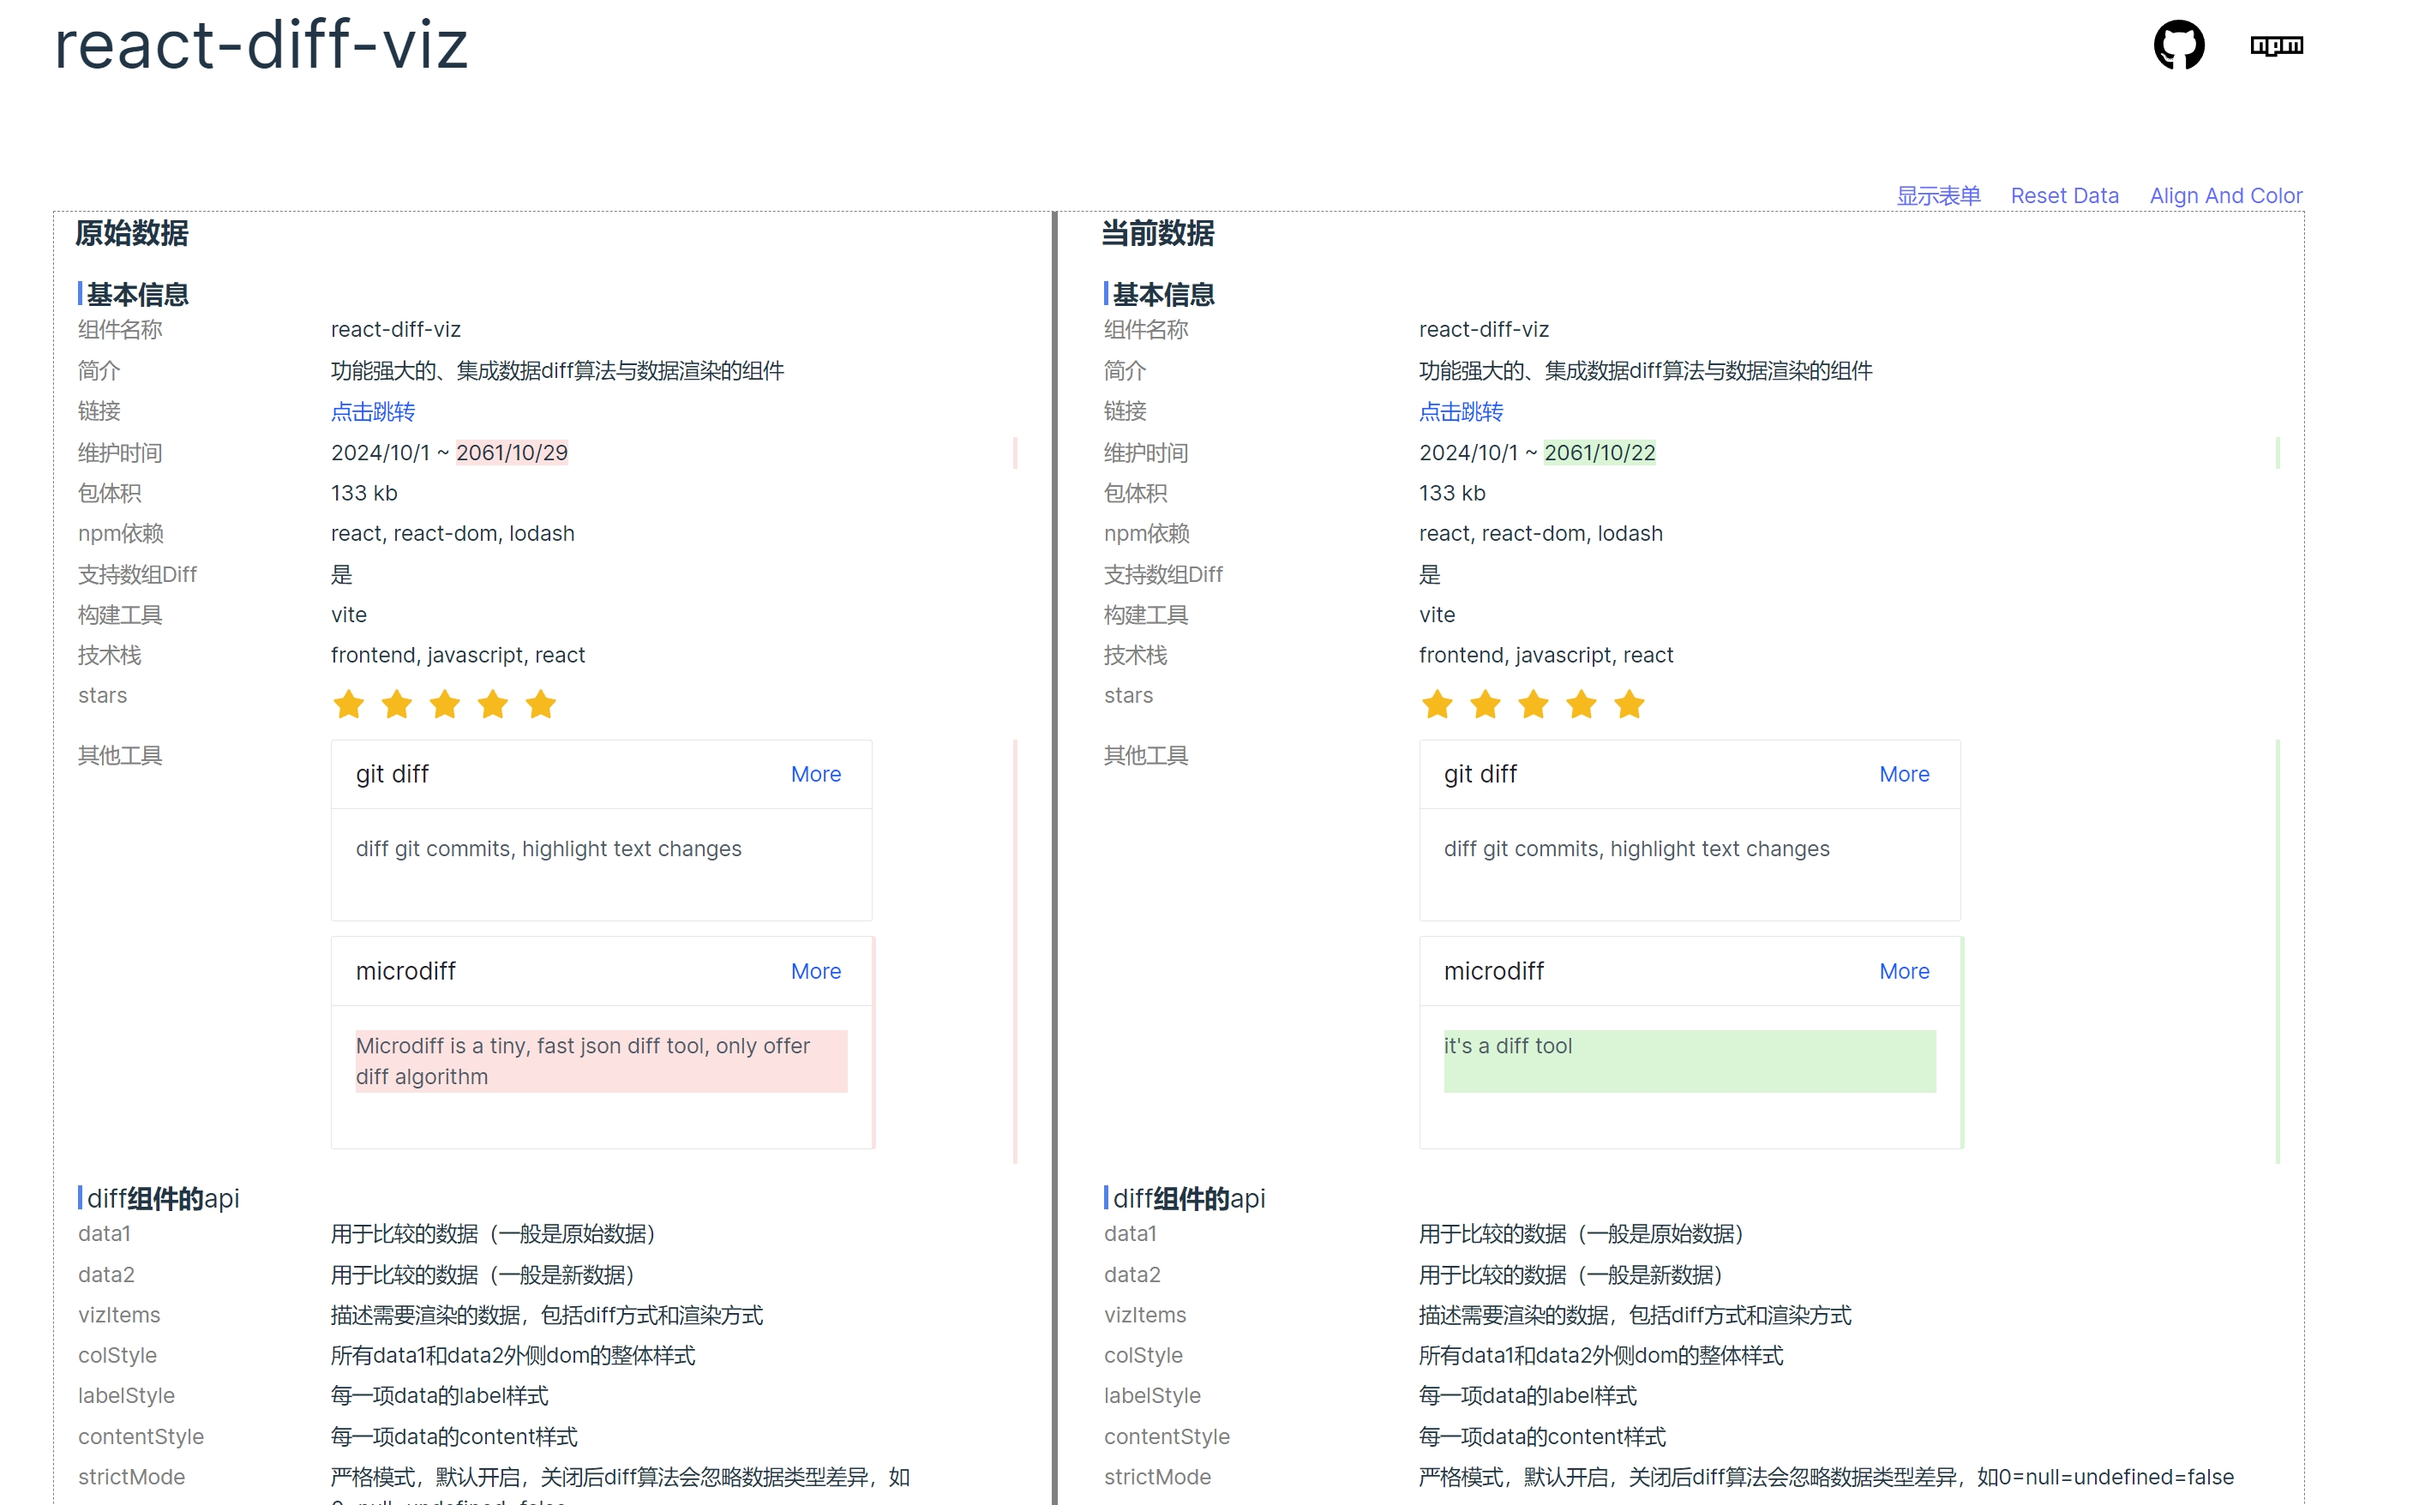
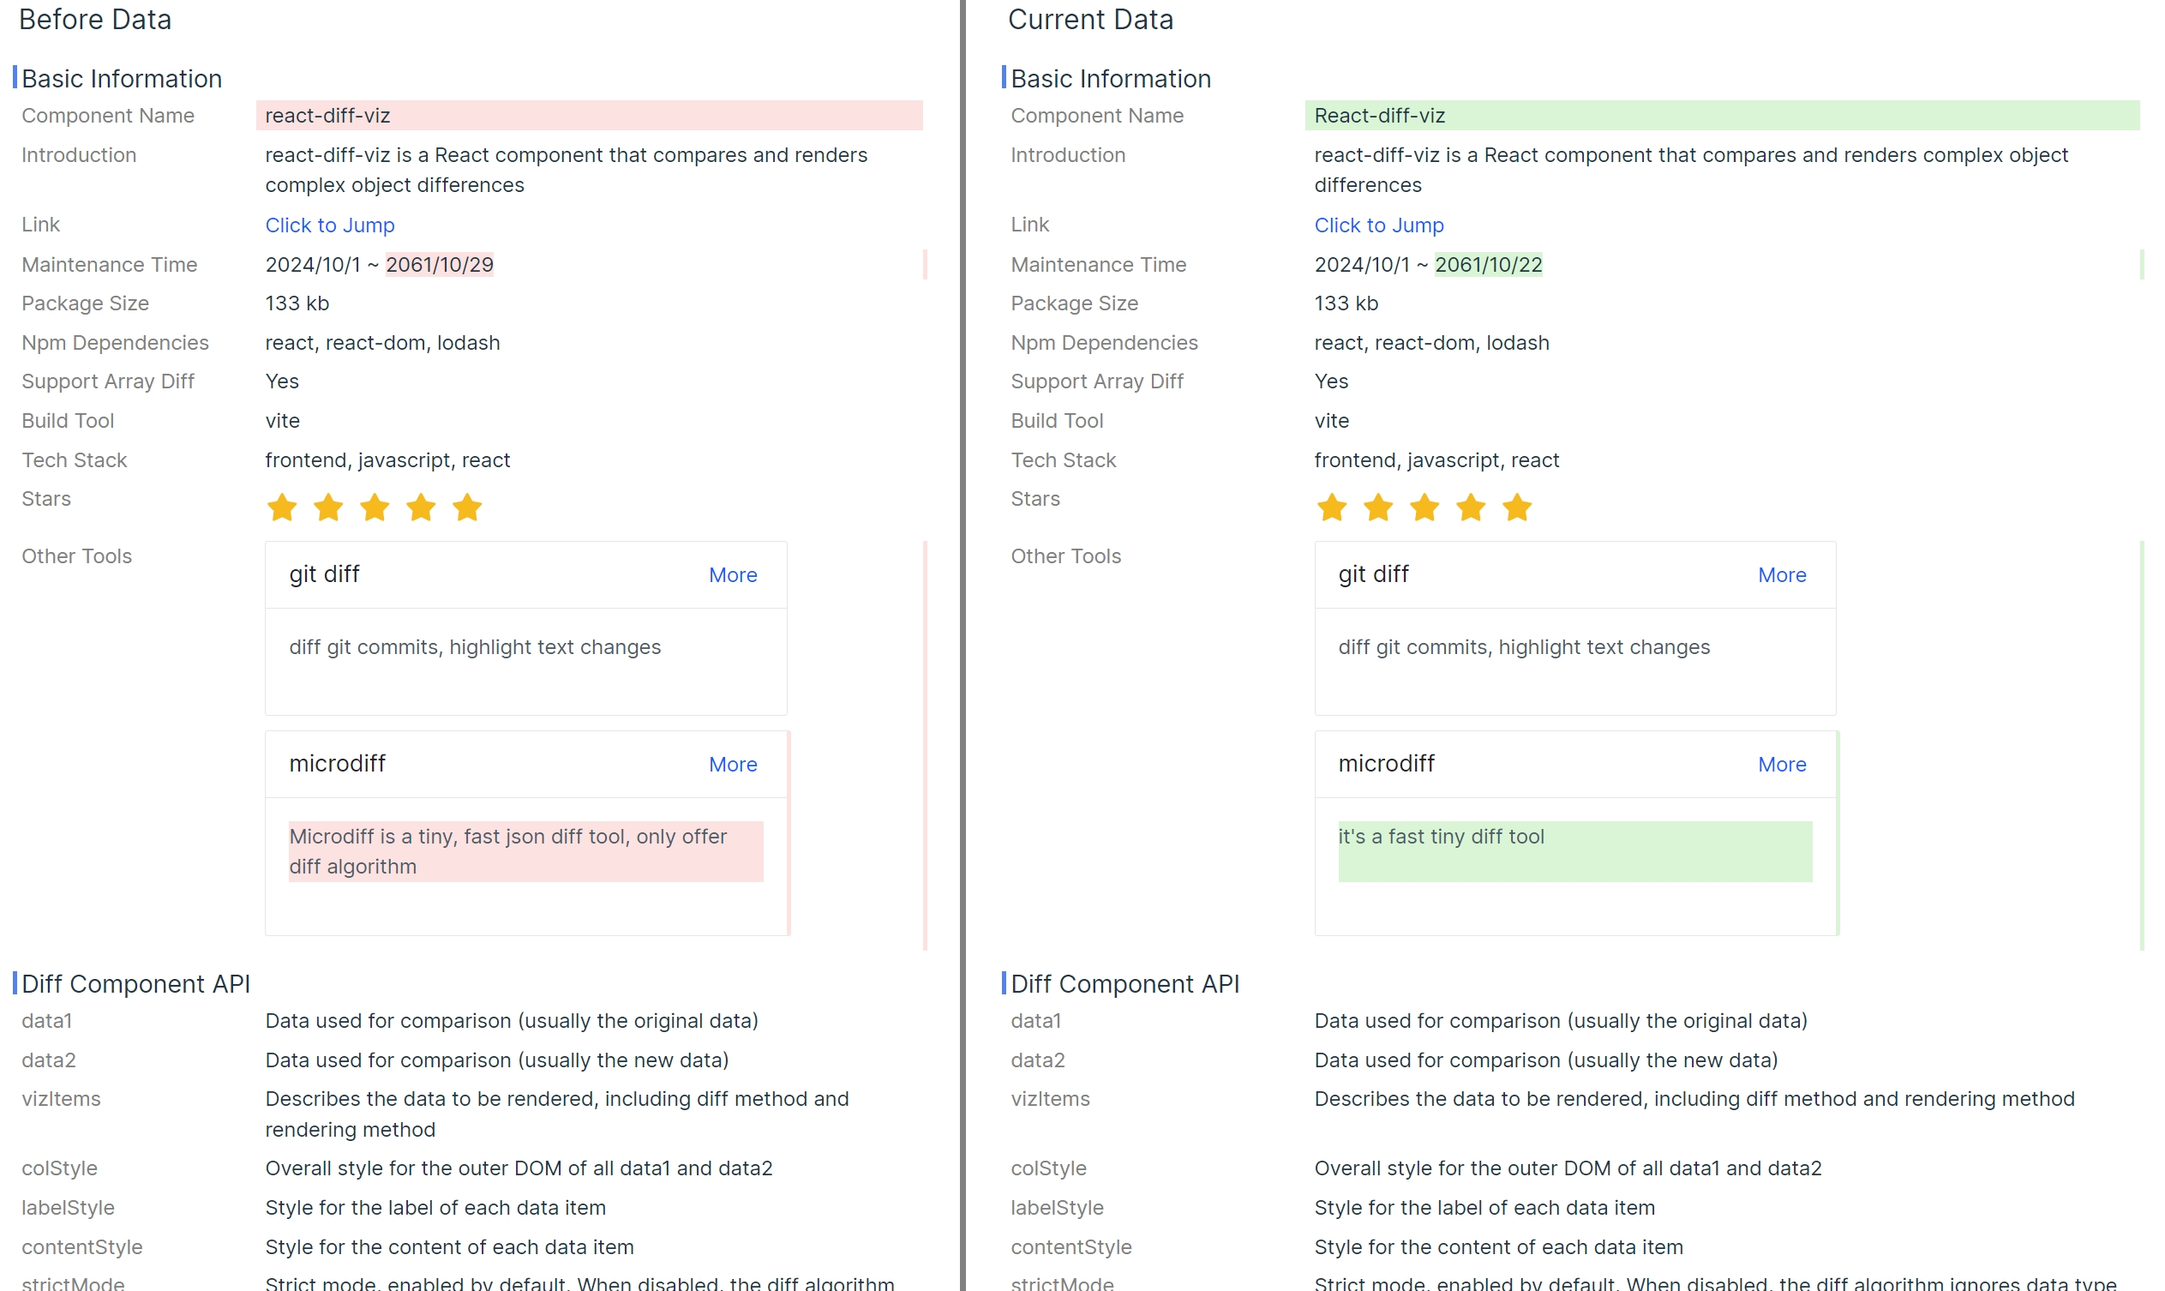
v1.1.2

diff --git a/docs/src/App.tsx b/docs/src/App.tsx
@@ -168,7 +168,7 @@ function App() {
           height: "125px",
         }}
       >
-        <h1 style={{ marginTop: "10px" }}>react-diff-viz </h1>
+        <h1 style={{ marginTop: "10px" }}><img src="public/diff.ico" style={{ marginBottom: -22, marginRight: "10px" }}></img>react-diff-viz </h1>
         <div style={{ marginTop: "10px", display: "flex" }}>
           <div style={{ marginLeft: "30px" }}>
             <a
@@ -290,8 +290,6 @@ function App() {
           data2={formData}
           refreshKey={count}
           singleMode={false}
-          data1Title="Before Data"
-          data2Title="Current Data"
           vizItems={[
             { label: "Basic Information" },
             { label: "Component Name", path: "name" },

diff --git a/src/index.tsx b/src/index.tsx
@@ -213,8 +213,8 @@ export default function Diff<T extends DataTypeBase>(props: {
     singleMode = false,
     showTitle = true,
     refreshKey = 0,
-    data1Title = "原始数据",
-    data2Title = "当前数据",
+    data1Title = "Before Data",
+    data2Title = "Current Data",
     colStyle = { width: "650px" },
     labelStyle = { width: "30%" },
     contentStyle = { width: "65%" },

diff --git a/docs/src/form.tsx b/docs/src/form.tsx
@@ -183,6 +183,7 @@ export default function MyForm(props: any) {
       console.log("initialFormData: ", initialValues);
       formRef.current.setFieldsValue({
         ...initialValues,
+        name: "React-diff-viz",
         create_time: [1727765900000, 2897165900000],
         other_tools: [
           {

diff --git a/src/styles.ts b/src/styles.ts
@@ -9,9 +9,9 @@ export const titleStyle: CSSProperties = {
   fontSize: "19px",
 };
 export const headerStyle: CSSProperties = {
-  paddingLeft: "16px",
+  paddingLeft: "10px",
   marginTop: "10px",
-  marginBottom: "2px",
+  marginBottom: "4px",
   height: "24px",
   fontWeight: "bold",
   fontSize: "17px",

diff --git a/README.md b/README.md
@@ -20,7 +20,37 @@ react-diff-viz is a React component that compares and renders complex object dif
 ## Demo
 
 https://littlewhite-hai.github.io/react-diff-viz/
+
 ![demo](./docs/public/demo.png)
+
+## API
+
+### Diff Component API
+
+| Name               | Type             | Description                                                                                                                    |
+| ------------------ | ---------------- | ------------------------------------------------------------------------------------------------------------------------------ |
+| data1(required)    | any              | Data used for comparison (usually the original data)                                                                           |
+| data2(required)    | any              | Data used for comparison (usually the new data)                                                                                |
+| vizItems(required) | Array\<VizItem\> | Describes the data to be rendered, including diff method and rendering method                                                  |
+| colStyle           | CSSProperties    | Overall style for the outer DOM of all data1 and data2                                                                         |
+| labelStyle         | CSSProperties    | Style for the label of each data item                                                                                          |
+| contentStyle       | CSSProperties    | Style for the content of each data item                                                                                        |
+| strictMode         | boolean          | Strict mode, enabled by default. When disabled, the diff algorithm ignores data type differences, e.g., 0=null=undefined=false |
+| singleMode         | boolean          | Only view data2, default false                                                                                                 |
+| refreshKey         | number           | Change this key to trigger recoloring and height alignment                                                                     |
+
+### VizItems API
+
+| Name                  | Type                       | Description                                                                                                                               |
+| --------------------- | -------------------------- | ----------------------------------------------------------------------------------------------------------------------------------------- |
+| label                 | string                     | Title of the data, if only label is provided, it renders a separator title                                                                |
+| path                  | string                     | Data path of the data                                                                                                                     |
+| visible               | boolean                    | If false, the item will not be displayed                                                                                                  |
+| foldable(coming soon) | boolean                    | Whether it can be folded                                                                                                                  |
+| isEqual               | (v1,v2)=>boolean           | Customize the data diff algorithm                                                                                                         |
+| content               | (v,ext)=>ReactNode         | Customize the data rendering method                                                                                                       |
+| arrayKey              | string                     | Key for arrays, used to mark this data as array type                                                                                      |
+| alignAlignType        | "lcs" \| "data2" \| "none" | Array alignment method, default is longest common subsequence ([lcs](https://en.wikipedia.org/wiki/Longest_common_subsequence)) alignment |
 
 ## Install
 
@@ -72,6 +102,6 @@ const vizItems = [
 <Diff data1={data1} data2={data2} vizItems={vizItems} />;
 ```
 
-## 许可证
+## License
 
 MIT
